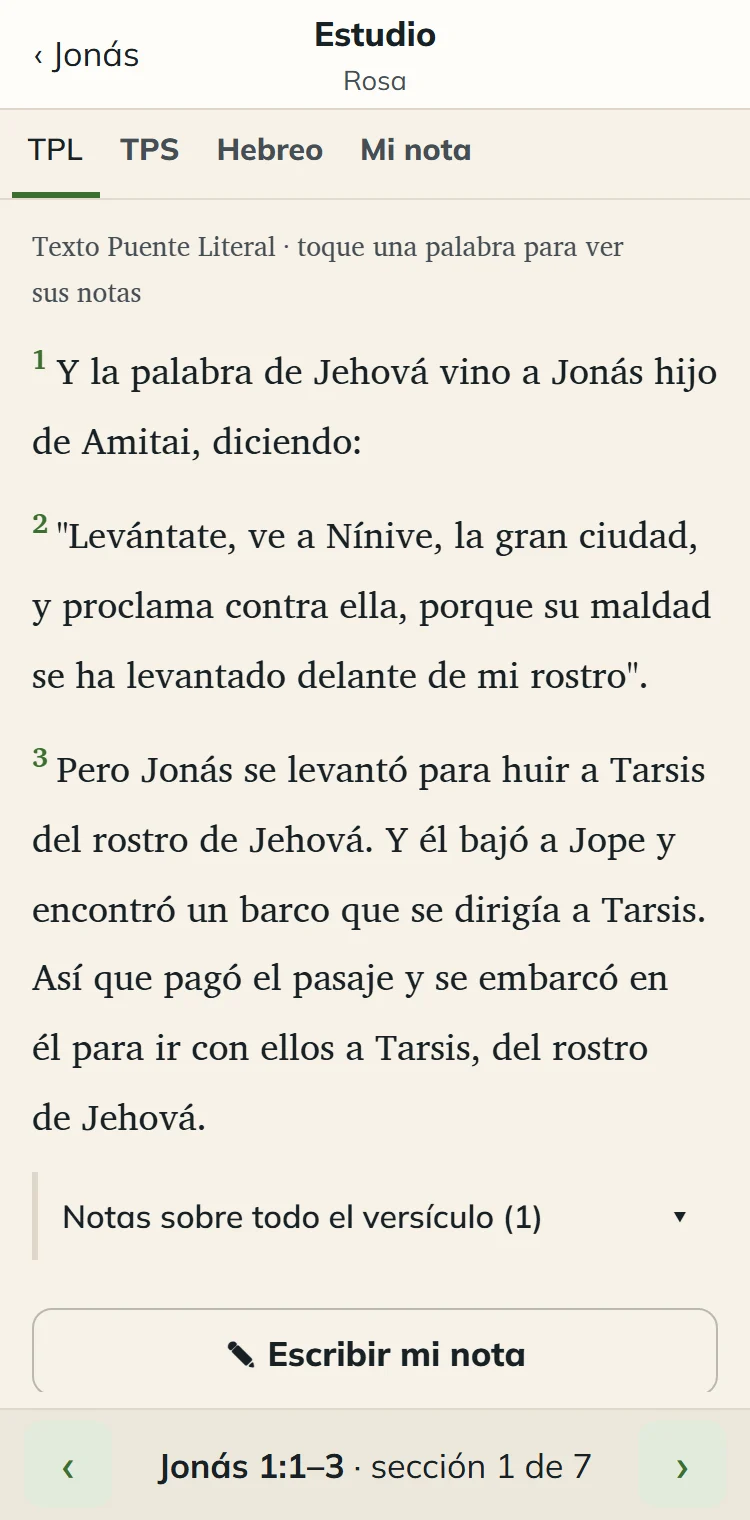
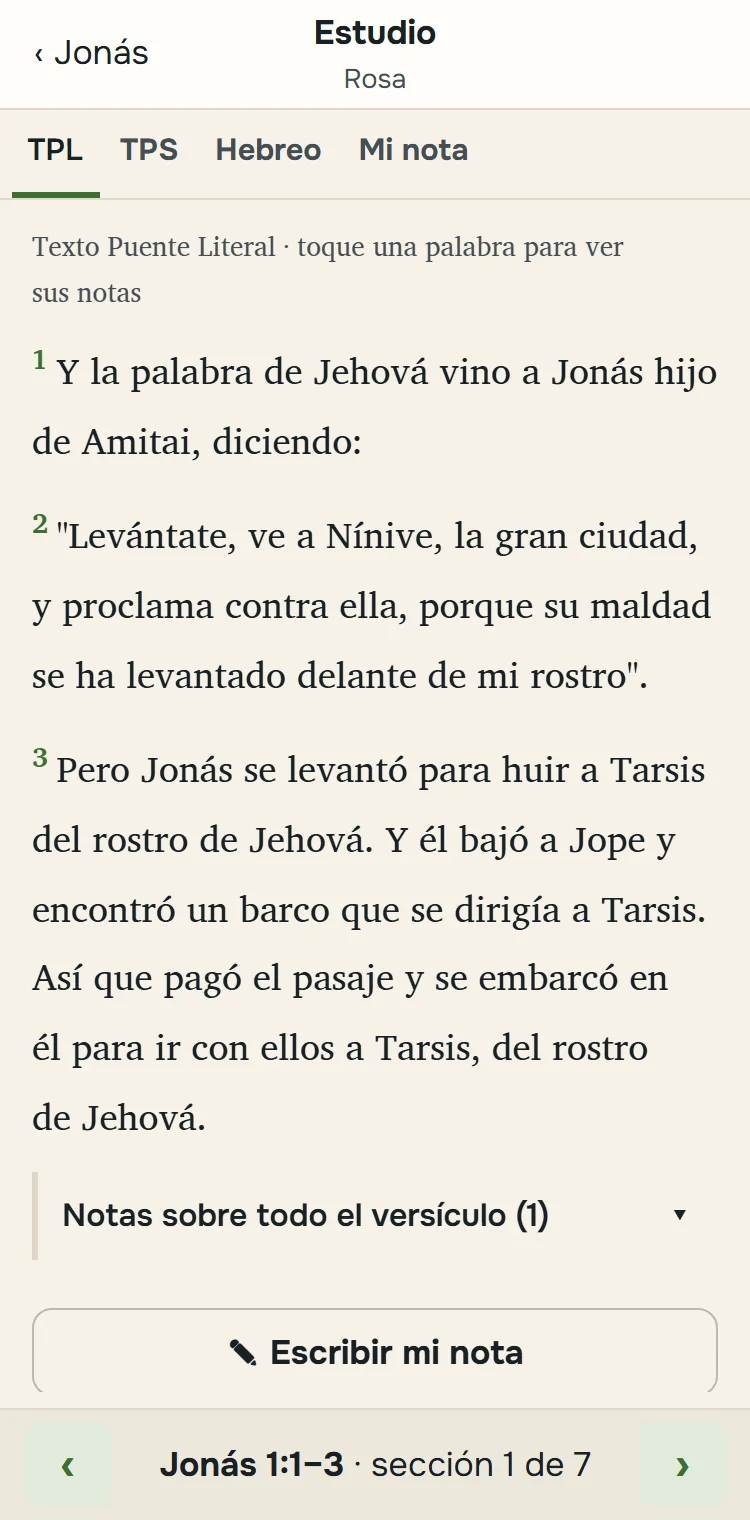
Retake the guide's screenshots with Onest and the new Home
The guide's pictures were taken before the interface moved to Onest and
Home was rebuilt, so they showed Mulish and the old projects page. All
of them are taken again from the built app, and two new ones show Home
itself (phone and computer), described in a short «El inicio» section
of the first-time page. The first book is now offered right after
creating the Bible, which the guide says instead of a tile to tap.

The walk opened a book by tapping its name on Home; the book worked on
last is now the moss field, whose button can go back into a mini app,
so the script opens it from the rows or through the frame's «Volver a».

diff --git a/sitio/es/docs/2-primera-vez.md b/sitio/es/docs/2-primera-vez.md
@@ -50,7 +50,7 @@ Un proyecto es la traducción a un idioma. Lo crea una vez quien coordina, y lo 
 
 ## Agregar un libro
 
-1. En el proyecto, toque **Agregar un libro** y luego **Empezar un libro en blanco**.
+1. Al crear la Biblia, Servos ofrece enseguida el primer libro: toque **Empezar un libro en blanco**. (Si cerró ese paso, en el inicio toque **Agregar un libro →**.)
 2. Arriba están los libros **listos en este teléfono**, los que llegaron en el paquete. Elija uno, por ejemplo **Jonás** o **Rut**.
 3. Toque **Crear Jonás** (o el libro que eligió).
 
@@ -60,3 +60,12 @@ Un proyecto es la traducción a un idioma. Lo crea una vez quien coordina, y lo 
 El libro se abre en su primer paso, **Estudio**. Arriba están los pasos del libro: Estudio, Traducción, Revisión, Comunidad y Publicar. Servos también pregunta **cómo se dice el nombre del libro** en el idioma del pueblo: así aparece en la app y al publicar. Puede escribirlo ahora o después, en **Más › Nombre del libro**.
 
 Si el libro ya está empezado en otra app (Paratext, translationCore), elija **Desde un archivo USFM** en lugar de un libro en blanco.
+
+## El inicio
+
+Al abrir Servos, arriba está el nombre del proyecto y, en el recuadro verde, el libro en que trabajó la última vez: en qué paso va, de los cinco, y el botón para seguir donde quedó. Debajo están los otros libros, cada uno con su paso, y al final **+ Agregar un libro**. Abajo, **Ajustes** del proyecto y **+ Otro proyecto**.
+
+Si el equipo tiene más de un proyecto, toque el nombre del proyecto, arriba, para pasar a otro. En la computadora, los proyectos están en una columna a la izquierda.
+
+![El inicio](inicio.webp "El libro de la última vez, y los demás debajo")
+![El inicio en una computadora](computadora-inicio.webp "En la computadora, los proyectos a la izquierda")
